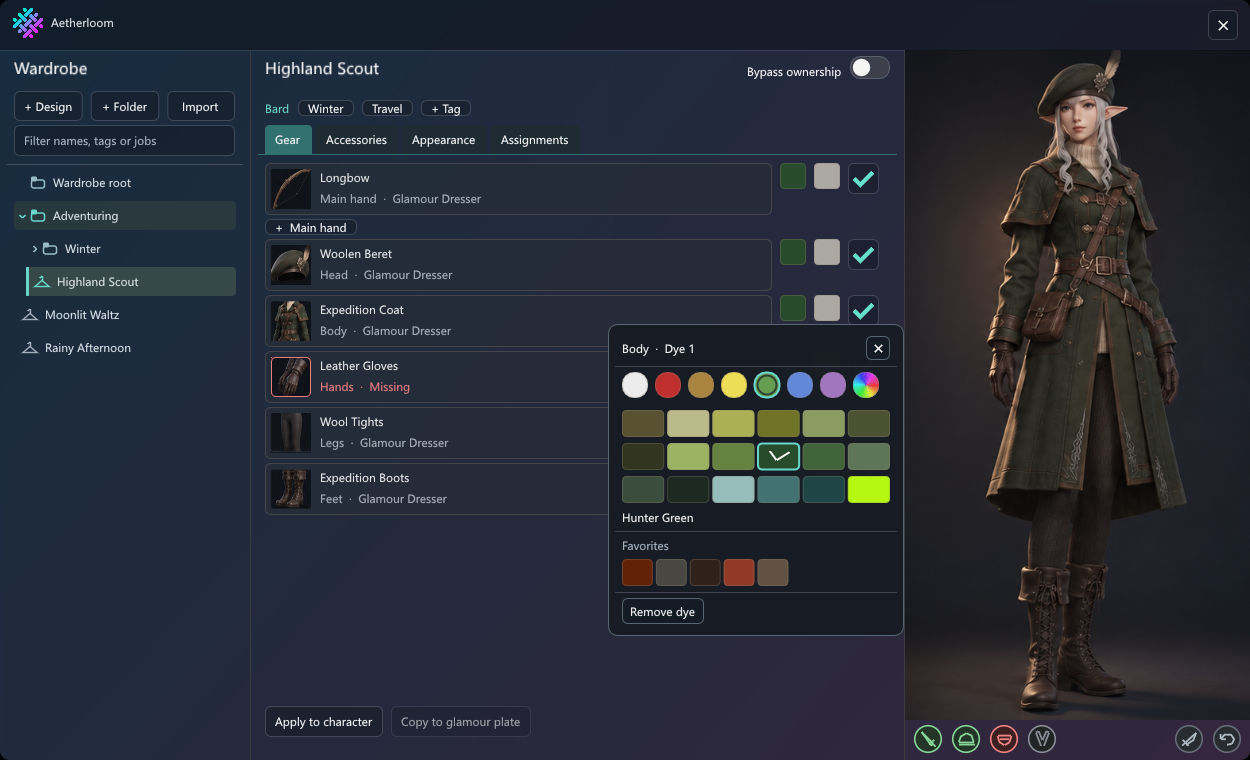
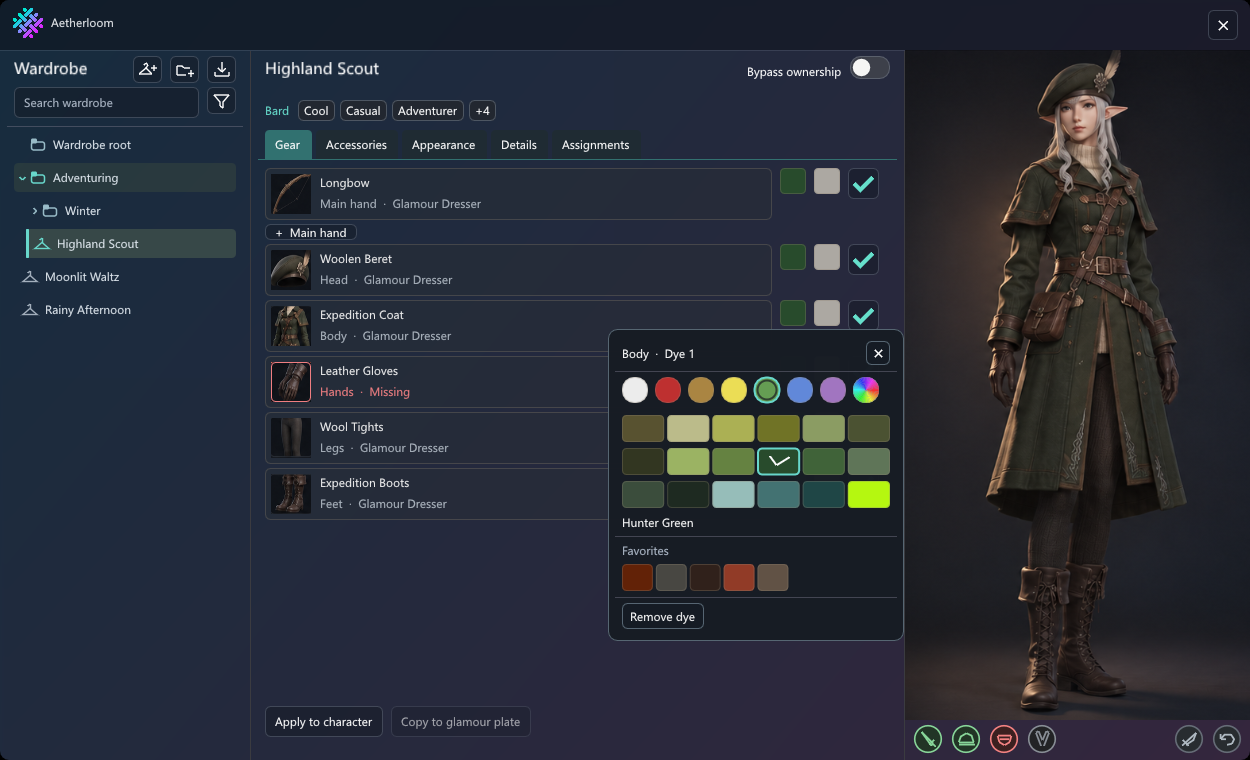
Render wardrobe details and exercise tag and filter interactions

diff --git a/WardrobePreview/Program.cs b/WardrobePreview/Program.cs
@@ -32,7 +32,7 @@ internal sealed class RenderForm(string? scene,string? output):Form
         surface=new GlSurface(Handle);
         fixture=new WardrobeFixture(LoadReference);
         if(scene=="dye-neutral"){fixture.SetDye("Body",0,0);fixture.FavoriteDyes.Clear();}
-        layout=new(fixture);fixture.Layout=layout;
+        layout=new(fixture);fixture.Layout=layout;layout.ConfigureScene(scene);
         timer.Tick+=(_,_)=>Invalidate();timer.Start();
     }
     private ImTextureID LoadReference(string name)
@@ -47,14 +47,19 @@ internal sealed class RenderForm(string? scene,string? output):Form
     {
         if(surface==null||layout==null)return;
         var io=ImGui.GetIO();io.DisplaySize=new(ClientSize.Width,ClientSize.Height);io.DeltaTime=.025f;
+        if((scene is "filter-clear" or "tag-select") && frame is 3 or 4 or 5)
+        {
+            io.AddMousePosEvent(scene=="filter-clear"?277:480,scene=="filter-clear"?446:389);
+            if(frame>=4)io.AddMouseButtonEvent(0,frame==4);
+        }
         if((scene is "folder-menu" or "design-menu" or "design-clone") && frame is 2 or 3)
         {
-            io.AddMousePosEvent(84,scene=="folder-menu"?215:281);
+            io.AddMousePosEvent(84,scene=="folder-menu"?178:244);
             io.AddMouseButtonEvent(1,frame==2);
         }
         if(scene=="design-clone" && frame is 5 or 6 or 7)
         {
-            io.AddMousePosEvent(132,324);
+            io.AddMousePosEvent(132,287);
             if(frame>=6)io.AddMouseButtonEvent(0,frame==6);
         }
         if(scene=="ownership-bypass" && frame is 2 or 3 or 4)
@@ -64,10 +69,10 @@ internal sealed class RenderForm(string? scene,string? output):Form
         }
         if(scene=="folder-drag")
         {
-            if(frame is 1 or 2)io.AddMousePosEvent(85,247);
+            if(frame is 1 or 2)io.AddMousePosEvent(85,211);
             if(frame==2)io.AddMouseButtonEvent(0,true);
-            if(frame==3)io.AddMousePosEvent(105,246);
-            if(frame is 4 or 5)io.AddMousePosEvent(80,181);
+            if(frame==3)io.AddMousePosEvent(105,210);
+            if(frame is 4 or 5)io.AddMousePosEvent(80,145);
             if(frame==6)io.AddMouseButtonEvent(0,false);
         }
         if((scene is "clear-gear" or "clear-accessory") && frame is 5 or 6 or 7)
@@ -77,10 +82,14 @@ internal sealed class RenderForm(string? scene,string? output):Form
         }
         ImGui.NewFrame();ImGui.SetNextWindowPos(Vector2.Zero);ImGui.SetNextWindowSize(io.DisplaySize);
         WindowShell.PushHostStyle();ImGui.Begin("Aetherloom",WindowShell.HostFlags|ImGuiWindowFlags.NoResize|ImGuiWindowFlags.NoMove);WindowShell.PopHostStyle();
-        if(frame is 1 or 2)layout.Show(scene switch{"hair" or "paint" or "colors" or "appearance"=>"Appearance","accessories" or "earrings" or "clear-accessory"=>"Accessories","assignments" or "jobs" or "zones"=>"Assignments",_=>"Gear"},
-            scene switch{"import"=>"import","tags"=>"add-tag","jobs"=>"Jobs","zones"=>"Zones","dye" or "dye-neutral"=>"Body-dye0","colors"=>"HairColor","items" or "clear-gear"=>"Body","earrings" or "clear-accessory"=>"Ears","hair"=>"Hairstyle","paint"=>"FacePaint",_=>null});
+        if(frame is 1 or 2)layout.Show(scene switch{"details" or "filters" or "tags" or "filter-clear" or "tag-select"=>"Details","hair" or "paint" or "colors" or "appearance"=>"Appearance","accessories" or "earrings" or "clear-accessory"=>"Accessories","assignments" or "jobs" or "zones"=>"Assignments",_=>"Gear"},
+            scene switch{"import"=>"import","tags" or "tag-select"=>"tag-Style","filters" or "filter-clear"=>"filters","jobs"=>"Jobs","zones"=>"Zones","dye" or "dye-neutral"=>"Body-dye0","colors"=>"HairColor","items" or "clear-gear"=>"Body","earrings" or "clear-accessory"=>"Ears","hair"=>"Hairstyle","paint"=>"FacePaint",_=>null});
         layout.Draw(()=>BeginInvoke(Close));ImGui.End();ImGui.Render();surface.Paint(ClientSize.Width,ClientSize.Height);
         if(++frame==(scene is "design-clone" or "folder-drag" or "clear-gear" or "clear-accessory"?9:6) && output!=null){
+            if(scene=="filter-clear" && !layout.FilterClearPassed)
+                throw new InvalidOperationException("Clearing filters must preserve the search text.");
+            if(scene=="tag-select" && !fixture!.Tags.Contains("style:Vintage"))
+                throw new InvalidOperationException("Selecting a style suggestion must save its category.");
             if(scene=="ownership-bypass" && !fixture!.BypassOwnership)
                 throw new InvalidOperationException("Design title switch did not enable the ownership bypass.");
             if(scene=="design-clone" && (fixture!.Title!="Highland Scout (copy)" ||
@@ -104,4 +113,20 @@ internal sealed class RenderForm(string? scene,string? output):Form
     protected override void OnMouseWheel(MouseEventArgs e){if(surface!=null)ImGui.GetIO().AddMouseWheelEvent(0,e.Delta/120f);}
     protected override void OnKeyPress(KeyPressEventArgs e){if(surface!=null&&!char.IsControl(e.KeyChar))ImGui.GetIO().AddInputCharacter(e.KeyChar);}
     protected override void OnFormClosed(FormClosedEventArgs e){timer.Dispose();surface?.Dispose();ImGui.DestroyContext();base.OnFormClosed(e);}
+}
+
+namespace Aetherloom
+{
+    internal sealed partial class WardrobeLayout
+    {
+        internal void ConfigureScene(string? scene)
+        {
+            if(scene is "tags" or "tag-select")newTag="Vi";
+            if(scene=="filter-clear")filter="Highland";
+            if(scene is not ("filters" or "filter-clear"))return;
+            filters[WardrobeMetadata.Intended].Add("Ranged DPS");
+            filters["Style"].Add("Casual");
+        }
+        internal bool FilterClearPassed=>FilterCount==0 && filter=="Highland";
+    }
 }

diff --git a/WardrobePreview/WardrobeFixture.cs b/WardrobePreview/WardrobeFixture.cs
@@ -16,6 +16,7 @@ internal sealed class WardrobeFixture:IWardrobe
     public string Title=>designs.FirstOrDefault(d=>d.Id==Selected).Name??"";
     public string[] Tags=>designs.FirstOrDefault(d=>d.Id==Selected).Tags??[];
     public IReadOnlyList<string> KnownTags=>designs.SelectMany(d=>d.Tags).Distinct(StringComparer.OrdinalIgnoreCase).ToArray();
+    public IEnumerable<string> WeaponTerms(Guid id)=>["Bard","BRD"];
     public IEnumerable<string> JobTerms(Guid id)=>["Bard","BRD"];
     public string Message=>"";
     public bool ImportBusy=>false;
@@ -51,6 +52,7 @@ internal sealed class WardrobeFixture:IWardrobe
         }
         for(int i=0;i<3;i++)art[(uint)(120+i)]=Cut(items,587,528+i*83,60,60);
         foreach(var name in new[]{"Highland Scout","Rainy Afternoon","Winter Courier","Moonlit Waltz"})designs.Add((Guid.NewGuid(),name,["aetherloom","Winter","Travel"]));
+        designs[0]=(designs[0].Id,designs[0].Name,["aetherloom","gender:Female","intended:Ranged DPS","classification:Cool","style:Casual","theme:Adventurer","color:Green","color:Brown","Winter","Travel"]);
         designs[1]=(designs[1].Id,designs[1].Name,["aetherloom","Casual","City"]);
         Selected=designs[0].Id;assigned[("Jobs",1)]=Selected;assigned[("Zones",1)]=Selected;assigned[("Jobs",2)]=designs[1].Id;paths[Selected]="[AL] Adventuring";paths[designs[2].Id]="[AL] Adventuring/Winter";
         using var samples=typeof(WardrobeFixture).Assembly.GetManifestResourceStream("appearance-palette.bin")!;
@@ -110,7 +112,11 @@ internal sealed class WardrobeFixture:IWardrobe
         if(Selected==id)Selected=designs.FirstOrDefault().Id;
         return true;
     }
-    public void Tag(string tag,bool add){var i=designs.FindIndex(x=>x.Id==Selected);designs[i]=(Selected,Title,add?[..Tags,tag]:Tags.Where(x=>x!=tag).ToArray());}
+    public void EditTags(string[] remove,string? add)
+    {
+        var i=designs.FindIndex(d=>d.Id==Selected);
+        designs[i]=(Selected,Title,Tags.Except(remove,StringComparer.OrdinalIgnoreCase).Concat(add==null?[]:[add]).ToArray());
+    }
     public IEnumerable<WardrobeSlot> Slots(bool accessories)=>rows.Where(x=>accessories==(x.Key is "Ears" or "Neck" or "Wrists" or "RFinger" or "LFinger"));
     public IEnumerable<WardrobeItem> Catalog(string key){
         var item=rows.First(r=>r.Key==key).Item;yield return item;
